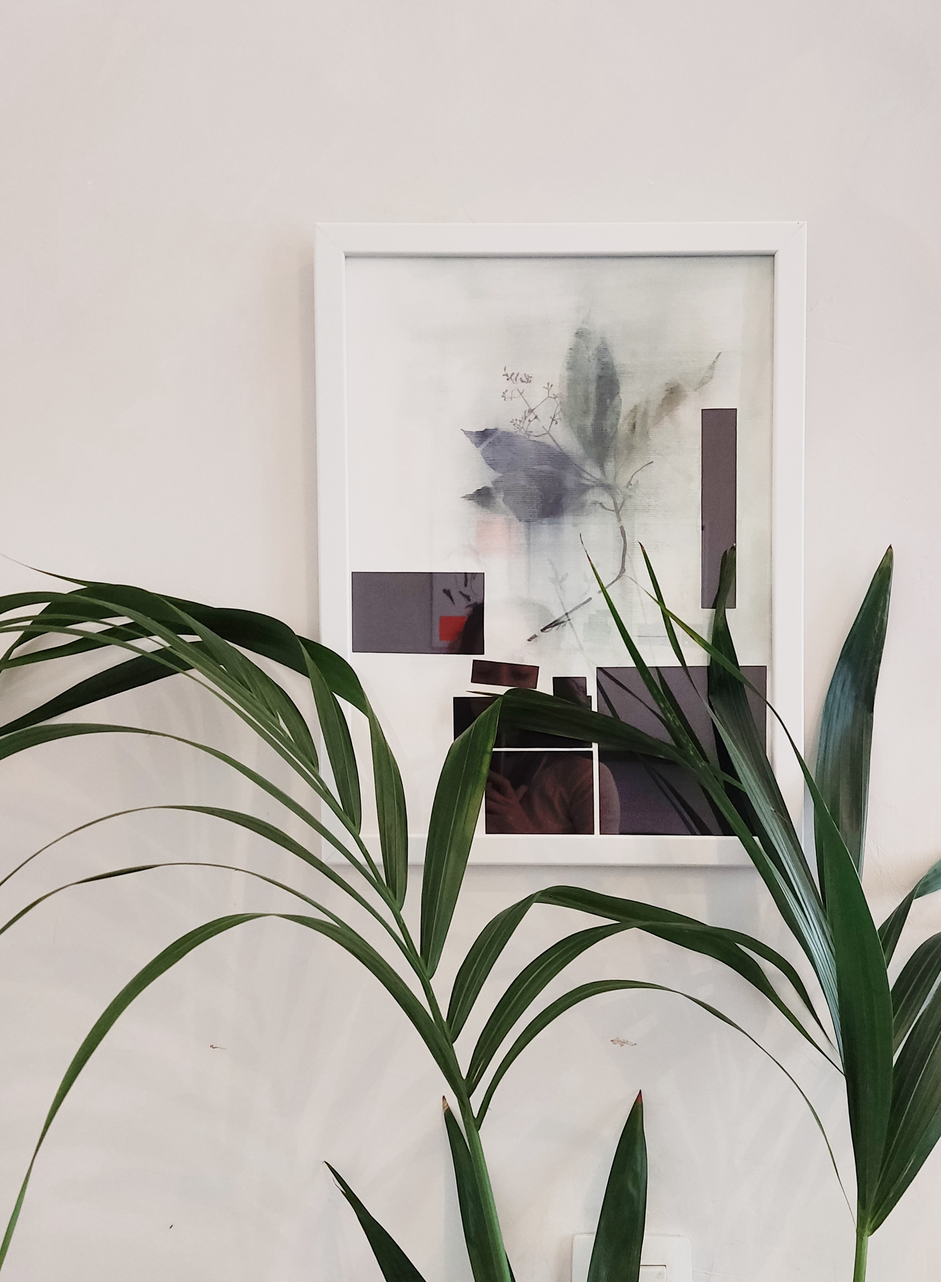
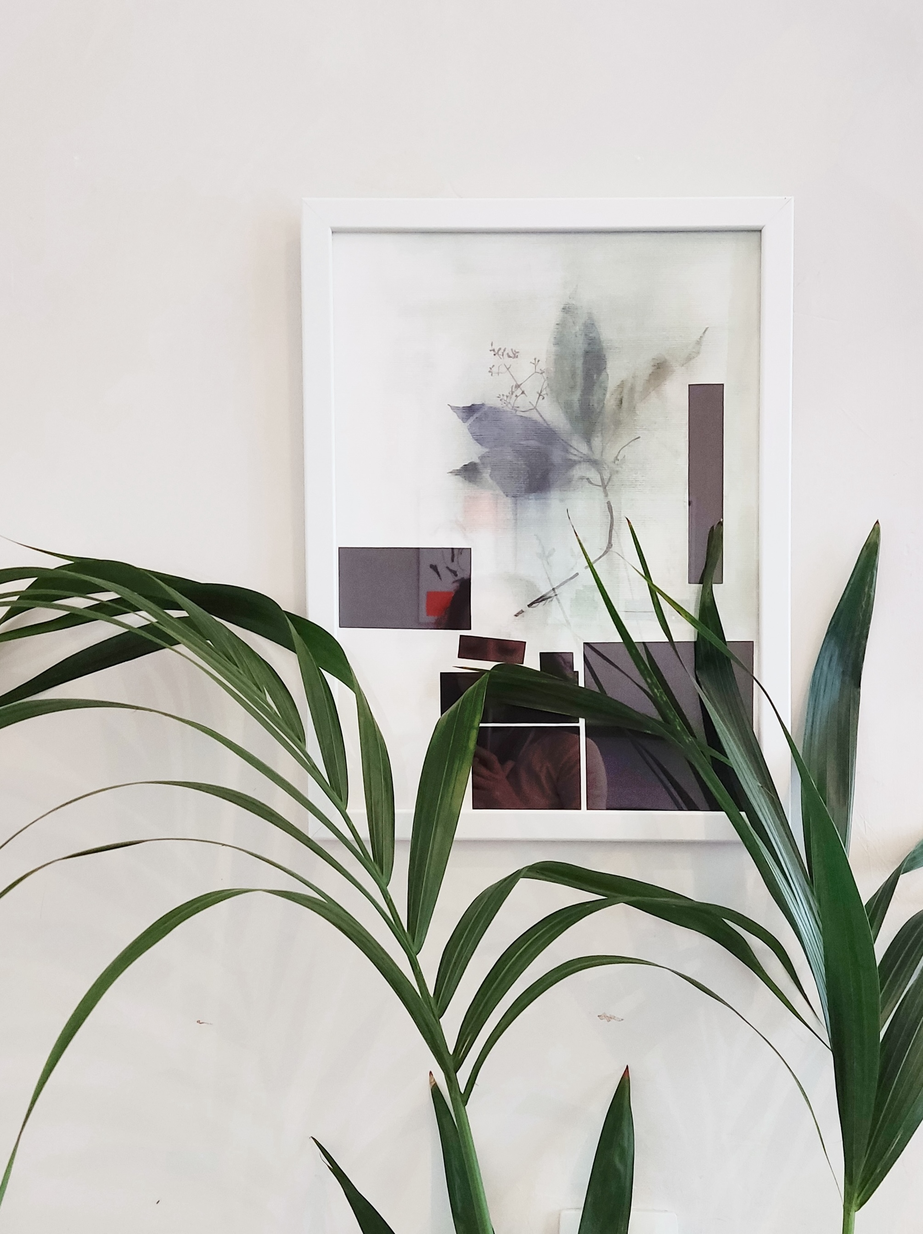
updating Herbarium page by removing two pictures and lightening up two remaining pictures

diff --git a/herbarium.html b/herbarium.html
@@ -135,18 +135,6 @@
                 <a href="images/Herbarium-Fiona_Guillemant.jpg" data-lightbox="image-3" data-title="Nymphaea Caerulea Savigny">
                         <img src="images/Herbarium-Fiona_Guillemant.jpg" alt="Nymphaea Caerulea Savigny, collections du MNHN">
                  </a>
-          </div>
-
-          <div class="gallery-item">
-            <a href="images/Herbarium-Fiona_Guillemant-Juncus fontanesii-Maroc-EN-1941-Bibliotheque_Herge.jpg" data-lightbox="image-3" data-title="Juncus Fontanesii, Maroc, 1941">
-                <img src="images/Herbarium-Fiona_Guillemant-Juncus fontanesii-Maroc-EN-1941-Bibliotheque_Herge.jpg" alt="Juncus Fontanesii, Maroc, 1941">
-            </a>
-            </div>
-
-            <div class="gallery-item">
-                    <a href="images/Herbarium-Fiona_Guillemant-Peperomia pedunculata-la-reunion_1866-Bibliotheque_Herge.jpg" data-lightbox="image-3" data-title="Peperomia Pedunculata, La Réunion, 1866">
-                    <img src="images/Herbarium-Fiona_Guillemant-Peperomia pedunculata-la-reunion_1866-Bibliotheque_Herge.jpg" alt="Peperomia Pedunculata, La Réunion, 1866">
-                </a>
             </div>
 
             <div class="gallery-item">

diff --git a/actualites.html b/actualites.html
@@ -44,7 +44,7 @@
 						<div class="row">
 							<article class="col-6 col-12-xsmall work-item">
 								<div class="gallery-item">
-							<a href="images/Visuel_Hosting.png" data-title="Affiche Hosting">
+							<a href="https://centrale.brussels/expos/hosting" data-title="Affiche Hosting">
 								<img src="images/Visuel_Hosting.png" alt="Affiche Hosting" style="width: 250px; height: auto; margin: 0 auto; display: block; float: left;" class="avatar custom-size">
 							</a>
 						</article>
@@ -52,7 +52,7 @@
 
 						<p> Exposition collective <i>Hosting, artists from Brussels & periphery</i> 📍 Centrale for contemporary art (Bruxelles, BE), du 10/10/2024 au 09/02/2025.
 							Commissariat : Manon de Boer, Pélagie Gbaguidi, Juan Pablo Plazas et Richard Venlet, et Tania Nasielski. 
-							<a href=https://centrale.brussels/expos/hosting/>Infos</a> <br> </p>
+							<a href=https://centrale.brussels/expos/hosting>Infos</a> <br> </p>
 							
 						<header class="major">
 							<h2>Passé </h2>
